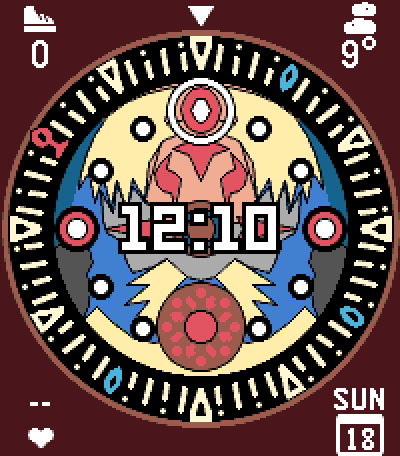
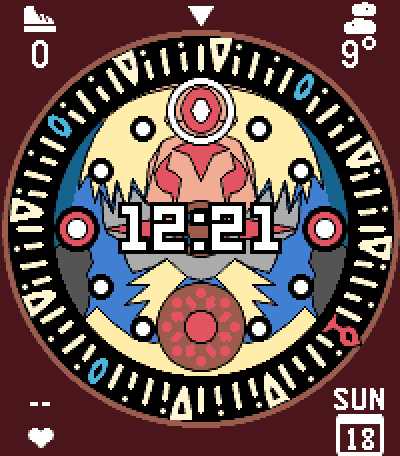
Turn the ring and disc clockwise, like the clock in the game
The minute ring and hour disc now rotate clockwise, so their marks run
counter-clockwise around them (15 and 45 minutes, 3 and 9 hours swap
sides). The wiggle starts backwards in the new direction. README text
and screenshots updated.

diff --git a/src/c/main.c b/src/c/main.c
@@ -4,7 +4,7 @@
  * Watchface inspired by the Clock Tower clock from The Legend of Zelda:
  * Majora's Mask, for Pebble Time 2 (emery, 200x228 rectangular display).
  *
- * The minute ring and the hour disc both turn counter-clockwise; the
+ * The minute ring and the hour disc both turn clockwise; the
  * current minute and hour are the marks at the top. The corners show steps,
  * current temperature (via PebbleKit JS + Open-Meteo), heart rate and date.
  * At night (sunset to sunrise, also from Open-Meteo) the sun disc becomes a moon.
@@ -81,7 +81,7 @@ static GColor s_info_color;
 static Window *s_window;
 static Layer *s_canvas_layer;
 static GPoint s_center;
-static int s_face_rot;   // hour disc rotation in degrees (counter-clockwise < 0)
+static int s_face_rot;   // hour disc rotation in degrees (clockwise > 0)
 static int s_ring_rot;     // minute ring rotation as drawn
 static int s_ring_target;  // rotation for the current minute
 static AppTimer *s_wiggle_timer;
@@ -343,7 +343,7 @@ static void draw_ring(GContext *ctx, int rot) {
   stroke_circle(ctx, s_center, R_OUTER - 1, C_FRAME, 2);
 
   for (int m = 0; m < 60; m++) {
-    int a = rot + m * 6;
+    int a = rot - m * 6;  // marks run counter-clockwise, ring turns clockwise
     if (m == 0) {
       local_poly(ctx, s_center, a, s_omega, 15, C_RED, 1);
       local_oval(ctx, s_center, a, 0, 366, 8, 11, C_RING, 0);
@@ -508,7 +508,7 @@ static void draw_face(GContext *ctx) {
   local_oval(ctx, s_center, rot, 0, UQ(315), UQ(55), UQ(62), C_RED, 1);
   local_oval(ctx, s_center, rot, 0, UQ(315), UQ(24), UQ(32), C_WHITE, 1);
   for (int i = 1; i < 12; i++) {
-    int a = rot + i * 30;
+    int a = rot - i * 30;  // markers run counter-clockwise, disc turns clockwise
     if (i == 6) {
       GPoint p = polar_around(s_center, a, 49);
       if (s_night) draw_moon_disc(ctx, p, rot); else draw_sun_disc(ctx, p, rot);
@@ -528,7 +528,7 @@ static void draw_face(GContext *ctx) {
   stroke_circle(ctx, s_center, R_FACE, C_LINE, 2);
 
   // Halo around the hour marker at the top (eye, ring, dot or sun disc)
-  int h = ((-rot / 30) % 12 + 12) % 12;
+  int h = (rot / 30) % 12;
   static const int8_t halo_y[4] = { 59, 62, 58, 49 };   // marker centre radius
   static const int8_t halo_r[4] = { 15, 13, 8, 25 };    // halo radius
   int kind = (h == 0) ? 0 : (h == 6) ? 3 : (h % 3 == 0) ? 1 : 2;
@@ -551,7 +551,7 @@ static void draw_pointer(GContext *ctx) {
   if (s_settings.time_pos == TIME_RING) {
     // Upright oval over the current minute, with the minute written in it
     // Coloured like the ring mark it covers: red omega, teal ovals, white bars
-    int m = (-s_ring_target / 6) % 60;
+    int m = (s_ring_target / 6) % 60;
     GColor fill = (m == 0) ? C_RED : (m % 15 == 0) ? C_OVAL : C_WHITE;
     local_oval(ctx, s_center, 0, 0, 4 * 88, 4 * 13, 4 * 14, fill, 2);
     draw_label(ctx, s_min_txt, GPoint(s_center.x, s_center.y - 88));
@@ -614,9 +614,9 @@ static void canvas_update_proc(Layer *layer, GContext *ctx) {
 #define PERSIST_WEATHER 4  // WMO weather code
 
 static void update_time(struct tm *t) {
-  // Both turn counter-clockwise so the current value sits at the top
-  s_ring_target = -t->tm_min * 6;
-  s_face_rot = -(t->tm_hour % 12) * 30;
+  // Both turn clockwise so the current value sits at the top
+  s_ring_target = t->tm_min * 6;
+  s_face_rot = (t->tm_hour % 12) * 30;
   int now = t->tm_hour * 60 + t->tm_min;
   s_night = now < s_sunrise || now >= s_sunset;
   strftime(s_time, sizeof(s_time), s_settings.use_12h ? "%I:%M" : "%H:%M", t);
@@ -769,9 +769,9 @@ static void health_handler(HealthEventType event, void *context) {
 
 // Minute change: the ring rocks back and forth like a mechanical escapement,
 // then snaps to the new minute. Offsets are degrees from the old position
-// (positive = backwards), one frame each.
+// (negative = backwards), one frame each.
 #define WIGGLE_FRAME_MS 40
-static const int8_t s_wiggle[] = { 1, -1, 1, -1 };
+static const int8_t s_wiggle[] = { -1, 1, -1, 1 };
 
 static void wiggle_cb(void *data) {
   int base = s_ring_rot - (s_wiggle_step ? s_wiggle[s_wiggle_step - 1] : 0);

diff --git a/README.md b/README.md
@@ -12,7 +12,7 @@ heart rate.
 ## How to read it
 
 Like the clock in the game, the outer minute ring and the inner hour disc both
-turn counter-clockwise; the current minute and hour are the marks at the top.
+turn clockwise; the current minute and hour are the marks at the top.
 The ring rocks back and forth for a moment before it moves on to the next
 minute. Between sunset and sunrise the sun on the hour disc becomes a moon.
 
